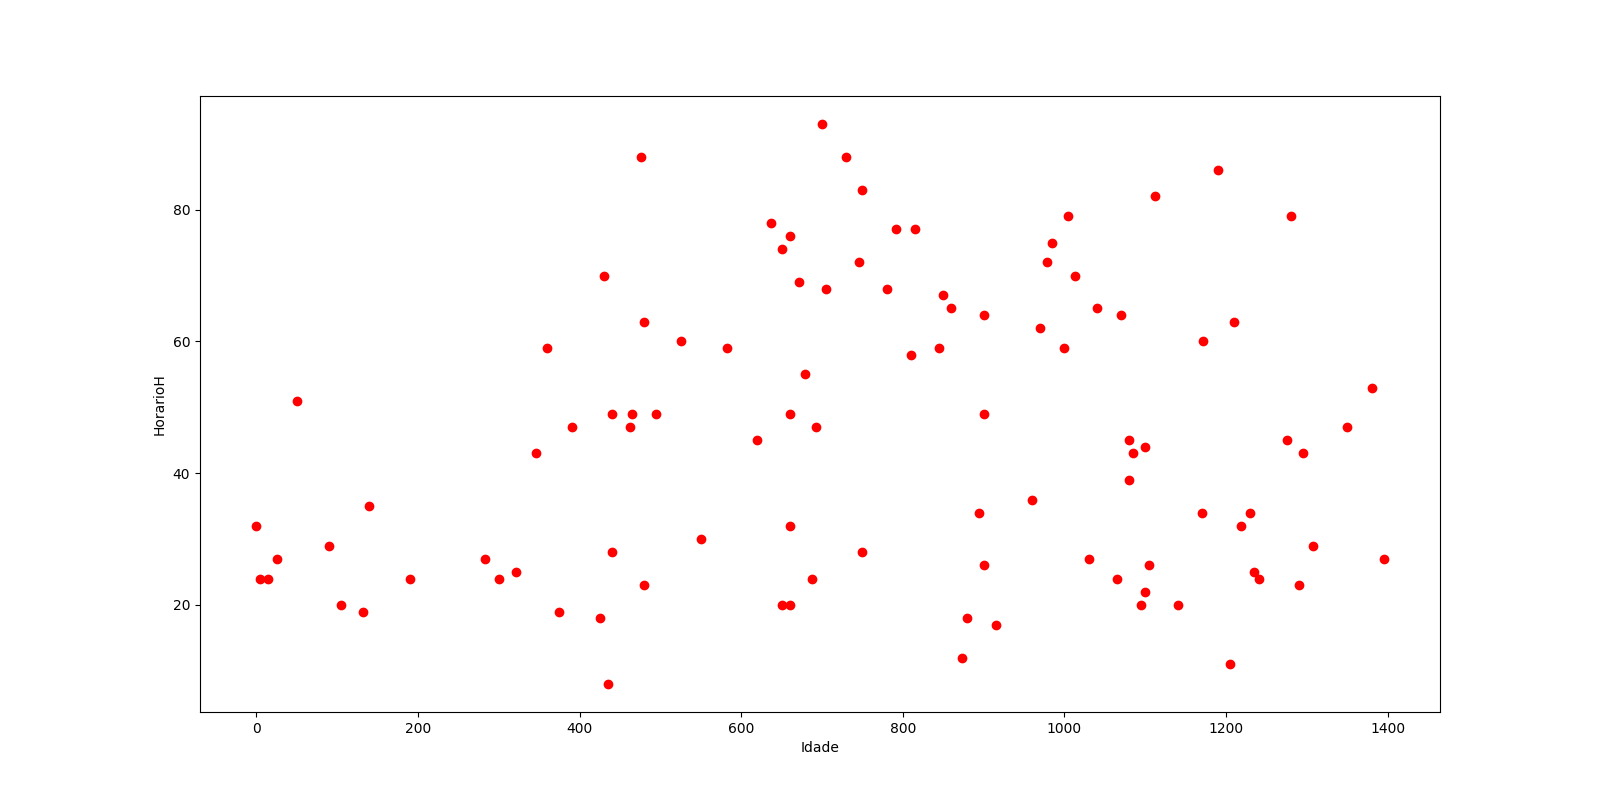
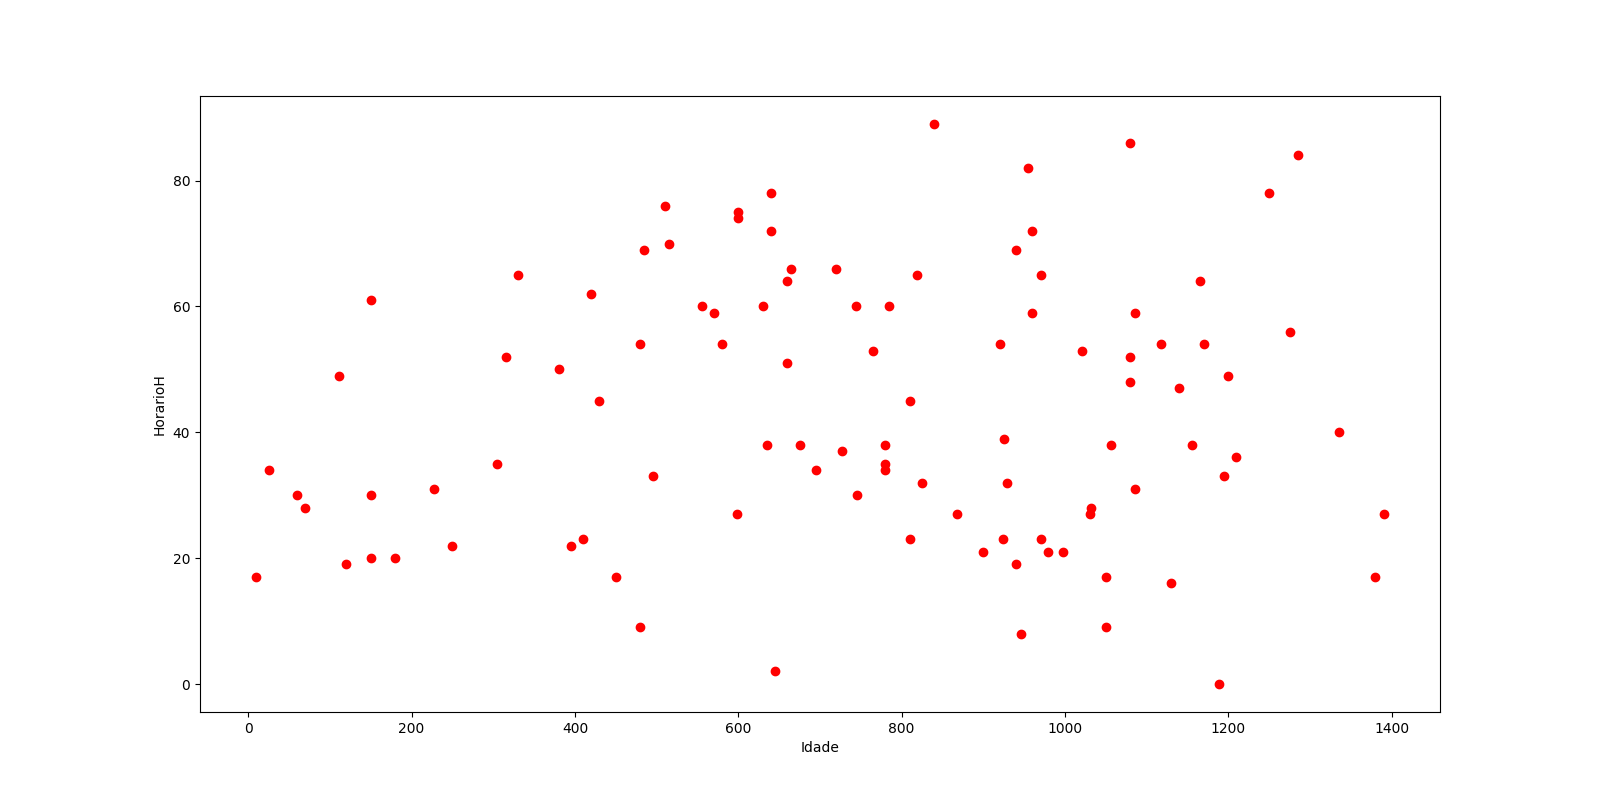
Save

diff --git a/arquivo.py b/arquivo.py
@@ -10,20 +10,22 @@ import statsmodels.formula.api as sm
 from sklearn.datasets import load_diabetes
 from sklearn.linear_model import LinearRegression as skl
 from sklearn.metrics import mean_squared_error
+import statsmodels.api as sme
+
 # tratamento do dataset
 dadosAustralia = pd.read_csv(
     "Crash_Data.csv", sep=",", low_memory=False)  # lendo .csv do dataset
 dadosAustralia = dadosAustralia.loc[:, [
-    'Speed Limit', 'Time', 'Gender', 'National Remoteness Areas','Age']]  # selecionando variáveis
-dadosAustralia.rename(columns={'Speed Limit': 'Velocidade máxima', 'Time': 'Horário',
-                      'Gender': 'Gênero', 'National Remoteness Areas': 'Região', 'Age': 'Idade'}, inplace=True)  # renomeando variáveis
+    'Speed Limit', 'Time', 'Gender', 'National Remoteness Areas','Age','Year', 'Month', 'Crash Type']]  # selecionando variáveis
+dadosAustralia.rename(columns={'Speed Limit': 'VelocidadeMaxima', 'Time': 'Horário', 'Year': 'Ano',
+                      'Gender': 'Gênero', 'National Remoteness Areas': 'Região', 'Age': 'Idade', 'Month': 'Mes','Crash Type': 'TipoBatida'}, inplace=True)  # renomeando variáveis
 
 dadosAustralia = dadosAustralia.dropna()  # tratando valores faltantes
 dadosAustralia.apply(lambda x: pd.to_numeric(
     x, errors='coerce')).dropna()  # tratando valores faltantes
-dadosAustralia = dadosAustralia[dadosAustralia["Velocidade máxima"].str.contains(
+dadosAustralia = dadosAustralia[dadosAustralia["VelocidadeMaxima"].str.contains(
     "<") == False]  # tratando valores incompletos
-dadosAustralia = dadosAustralia[dadosAustralia["Velocidade máxima"].str.contains(
+dadosAustralia = dadosAustralia[dadosAustralia["VelocidadeMaxima"].str.contains(
     "Unspecified") == False]  # tratando valores incompletos
 
 dadosAustralia['Idade'] = dadosAustralia['Idade'].astype(int)
@@ -60,30 +62,30 @@ sQuartilHora = dadosAustralia['Horário'].quantile(0.75)
 sQuartilHora = str(int(sQuartilHora // 60)).rjust(2, '0') + \
     ':' + str(int(sQuartilHora % 60)).rjust(2, '0')
 
-dadosAustralia['Velocidade máxima'] = pd.to_numeric(
-    dadosAustralia['Velocidade máxima'])  # convertendo vel maxima para numerico
+dadosAustralia['VelocidadeMaxima'] = pd.to_numeric(
+    dadosAustralia['VelocidadeMaxima'])  # convertendo vel maxima para numerico
 
-medianaVelocidade = dadosAustralia['Velocidade máxima'].median()
-modasVelocidade = dadosAustralia['Velocidade máxima'].mode()
-mediaVelocidade = dadosAustralia['Velocidade máxima'].mean()
+medianaVelocidade = dadosAustralia['VelocidadeMaxima'].median()
+modasVelocidade = dadosAustralia['VelocidadeMaxima'].mode()
+mediaVelocidade = dadosAustralia['VelocidadeMaxima'].mean()
 
-pQuartilVelocidade = dadosAustralia['Velocidade máxima'].quantile(0.25)
-sQuartilVelocidade = dadosAustralia['Velocidade máxima'].quantile(0.75)
+pQuartilVelocidade = dadosAustralia['VelocidadeMaxima'].quantile(0.25)
+sQuartilVelocidade = dadosAustralia['VelocidadeMaxima'].quantile(0.75)
 
 modasGenero = dadosAustralia['Gênero'].mode()
 
 modasRegiao = dadosAustralia['Região'].mode()
 
 valoresMediana = {'Horário':  [medianaHorario],
-                  'Velocidade Máxima(km/h)': [medianaVelocidade]
+                  'VelocidadeMaxima(km/h)': [medianaVelocidade]
                   }
 valoresModa = {'Horário':  modasHorarios,
-               'Velocidade Máxima(km/h)': modasVelocidade,
+               'VelocidadeMaxima(km/h)': modasVelocidade,
                'Gênero': modasGenero,
                'Região': modasRegiao
                }
 valoresMedia = {'Horário':  [mediaHorario],
-                'Velocidade Máxima(km/h)': [mediaVelocidade]
+                'VelocidadeMaxima(km/h)': [mediaVelocidade]
                 }
 valoresQuartisHora = {  '1º quartil': [pQuartilHora],
                         '3º quartil': [sQuartilHora]
@@ -144,7 +146,7 @@ HTML(pd.DataFrame(valoresQuartisHora).style.set_table_styles(
 
 print()
 
-print('\033[1mQuartis de velocidade máxima\033[0m')
+print('\033[1mQuartis de VelocidadeMaxima\033[0m')
 print(pd.DataFrame(valoresQuartisVelocidade).to_string(index=False))
 HTML(pd.DataFrame(valoresQuartisVelocidade).to_html(index=False))
 HTML(pd.DataFrame(valoresQuartisVelocidade).style.set_table_styles(
@@ -159,8 +161,8 @@ HTML(pd.DataFrame(valoresQuartisVelocidade).style.set_table_styles(
 # mean_df = df.mean()
 # display(df.style.hide_index().set_caption("Modas"))
 
-desvioPadraoVelocidade = dadosAustralia['Velocidade máxima'].std()
-varianciaVelocidade = dadosAustralia['Velocidade máxima'].var()
+desvioPadraoVelocidade = dadosAustralia['VelocidadeMaxima'].std()
+varianciaVelocidade = dadosAustralia['VelocidadeMaxima'].var()
 coeficienteVariacaoVelocidade = (desvioPadraoVelocidade / mediaVelocidade) * 100
 
 desvioPadraoHorarioMinutos = dadosAustralia['Horário'].std()
@@ -171,13 +173,13 @@ desvioPadraoHorario = str(int(desvioPadraoHorarioMinutos // 60)).rjust(2, '0') +
     ':' + str(int(desvioPadraoHorarioMinutos % 60)).rjust(2, '0')
 
 valoresDesvioPadrao = {'Horário':  [desvioPadraoHorario],
-                       'Velocidade Máxima(km/h)': [desvioPadraoVelocidade]
+                       'VelocidadeMaxima(km/h)': [desvioPadraoVelocidade]
                        }
 valoresVarianca = {'Horário':  [varianciaHorario],
-                   'Velocidade Máxima': [varianciaVelocidade]
+                   'VelocidadeMaxima': [varianciaVelocidade]
                    }
 valoresCoeficienteVariacao = {'Horário(%)':  [coeficienteVariacaoHorario],
-                              'Velocidade Máxima(%)': [coeficienteVariacaoVelocidade]
+                              'VelocidadeMaxima(%)': [coeficienteVariacaoVelocidade]
                               }
 
 # RENDERIZAÇÃO DE TABELAS PARA RELATÓRIO
@@ -233,8 +235,8 @@ plt.close()
 # GERANDO HISTOGRAMAS VELOCIDADE MÃXIMA
 
 plt.figure(figsize=(8,5))
-plt.hist(dadosAustralia['Velocidade máxima'], rwidth=0.9, bins=12)
-plt.title('Distribuição de acidentes fatais por velocidade máxima da rodovia')
+plt.hist(dadosAustralia['VelocidadeMaxima'], rwidth=0.9, bins=12)
+plt.title('Distribuição de acidentes fatais por VelocidadeMaxima da rodovia')
 plt.xlabel('Velocidade (em km/h)')
 x = np.arange(0, 131, 10)
 plt.xticks(x)
@@ -246,7 +248,7 @@ plt.close()
 # GERANDO HISTOGRAMAS HORÁRIO
 
 '''plt.figure(figsize=(10,7), dpi= 80)
-sns.distplot(dadosAustralia["Velocidade máxima"], color="dodgerblue", label="Compact",)
+sns.distplot(dadosAustralia["VelocidadeMaxima"], color="dodgerblue", label="Compact",)
 plt.savefig('normal.png')
 plt.show()
 plt.close()'''
@@ -281,9 +283,9 @@ plt.show()
 plt.close()
 
 # BOXPLOT VELOCIDADE 
-boxplot = dadosAustralia.boxplot(column="Velocidade máxima", by="Gênero")
+boxplot = dadosAustralia.boxplot(column="VelocidadeMaxima", by="Gênero")
 boxplot.plot()
-plt.title('Distribuição de acidentes fatais: velocidade máxima por gênero')
+plt.title('Distribuição de acidentes fatais: VelocidadeMaxima por gênero')
 plt.ylabel('Velocidade (km/h)')
 plt.suptitle('')
 plt.savefig('velocidade-por-genero.png')
@@ -303,7 +305,7 @@ plt.close()
 
 dadosAustralia.rename(columns={'Horário (em h)': 'HorarioH'}, inplace=True)  # renomeando variáveis
 
-# print(stats.normaltest(dadosAustralia['Velocidade máxima']))
+# print(stats.normaltest(dadosAustralia['VelocidadeMaxima']))
 dadosAustralia['HorarioH'] = dadosAustralia['HorarioH'].astype(int)
 
 amostra = dadosAustralia.sample(100)
@@ -339,7 +341,77 @@ plt.plot(
     linestyle=':'
 )
 
-plt.xlabel(" ($) Gasto em propaganda de TV")
-plt.ylabel(" ($) Vendas")
+plt.xlabel("Idade")
+plt.ylabel("Horário (em h)")
 plt.show()
-plt.savefig('dispersao2')
+plt.savefig('dispersao-idade-horario')
+
+
+###################
+plt.figure(figsize = (16,8))
+plt.scatter(
+    amostra['Horário'], 
+    amostra['Idade'], 
+    c='red')
+plt.xlabel("Idade")
+plt.ylabel("HorarioH")
+plt.show()
+plt.savefig('dispersao')
+X = amostra['Idade'].values.reshape(-1,1)
+y = amostra['HorarioH'].values.reshape(-1,1)
+reg = skl()
+reg.fit(X, y)
+
+f_previsaoes = reg.predict(X)
+
+
+plt.figure(figsize = (16,8))
+plt.scatter(
+    amostra['Idade'], 
+    amostra['HorarioH'], 
+    c='red')
+
+
+plt.plot(
+    amostra['Idade'],
+    f_previsaoes,
+    c='blue',
+    linewidth=3,
+    linestyle=':'
+)
+
+
+
+dadosAustralia.loc[dadosAustralia["TipoBatida"] == "Multiple", "TipoBatida"] = 2
+dadosAustralia.loc[dadosAustralia["TipoBatida"] == "Single", "TipoBatida"] = 1
+
+print(dadosAustralia)
+
+plt.xlabel("Idade")
+plt.ylabel("Horário (em h)")
+plt.show()
+plt.savefig('dispersao-idade-horario')
+print(dadosAustralia)
+dadosAustralia['VelocidadeMaxima'] = dadosAustralia['VelocidadeMaxima'].astype(int)
+dadosAustralia['TipoBatida'] = dadosAustralia['TipoBatida'].astype(int)
+modelo_1 = sm.ols('TipoBatida~VelocidadeMaxima+HorarioH', data=dadosAustralia).fit()
+print(modelo_1.summary())
+#histograma_residuos = modelo_1.predict()
+#sns.histplot(histograma_residuos, kde=true)
+#plt.title("Histograma dos resíduos da regressão")
+#plt.savefig("histograma_residuos")
+
+# variável preditora
+X = np.array(dadosAustralia['VelocidadeMaxima'])
+Z = np.array(dadosAustralia['HorarioH'])
+
+# variável alvo
+y = np.array(dadosAustralia['TipoBatida'])
+X_sm = sme.add_constant(X)
+Z_sm = sme.add_constant(Z)
+
+# OLS vem de Ordinary Least Squares e o método fit irá treinar o modelo
+results = sme.OLS(y, Z_sm).fit()
+# mostrando as estatísticas do modelo
+print(results.summary())
+# mostrando as previsões para o mesmo conjunto passado
